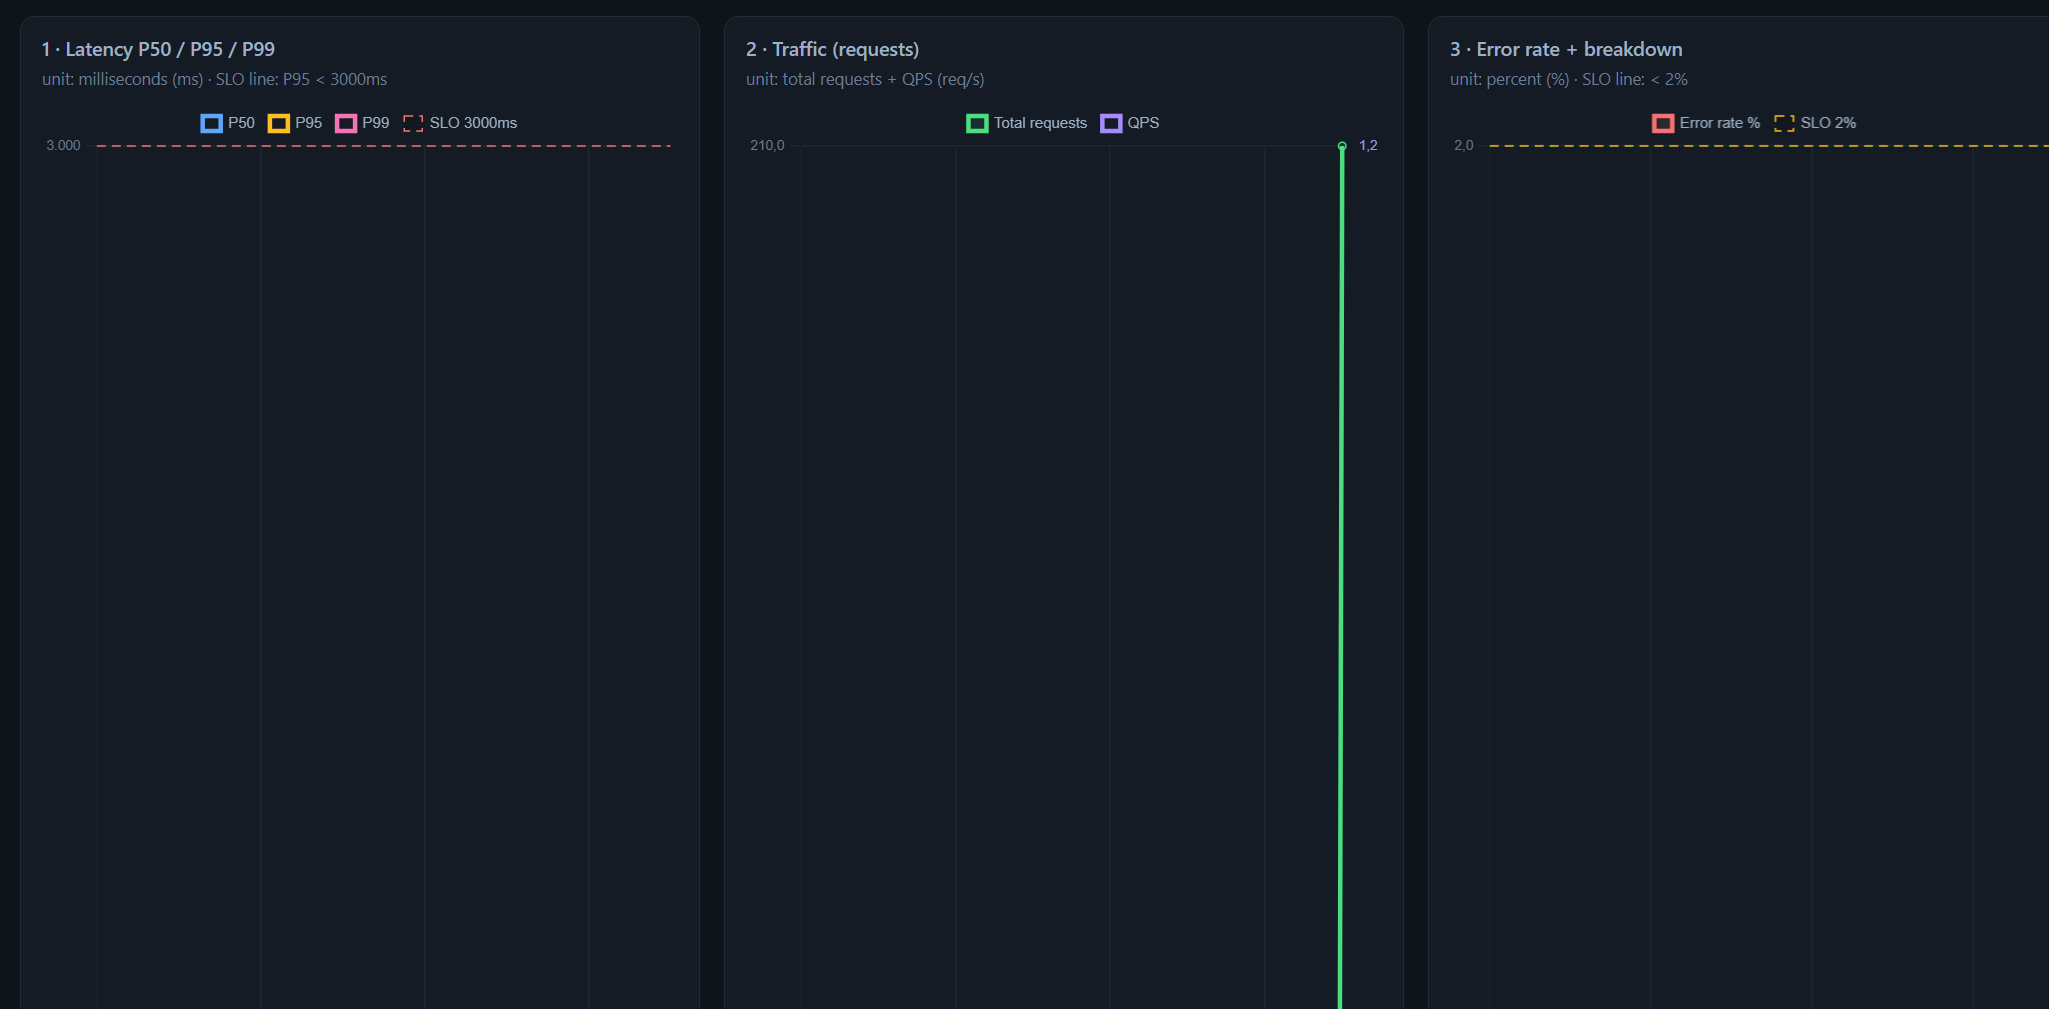
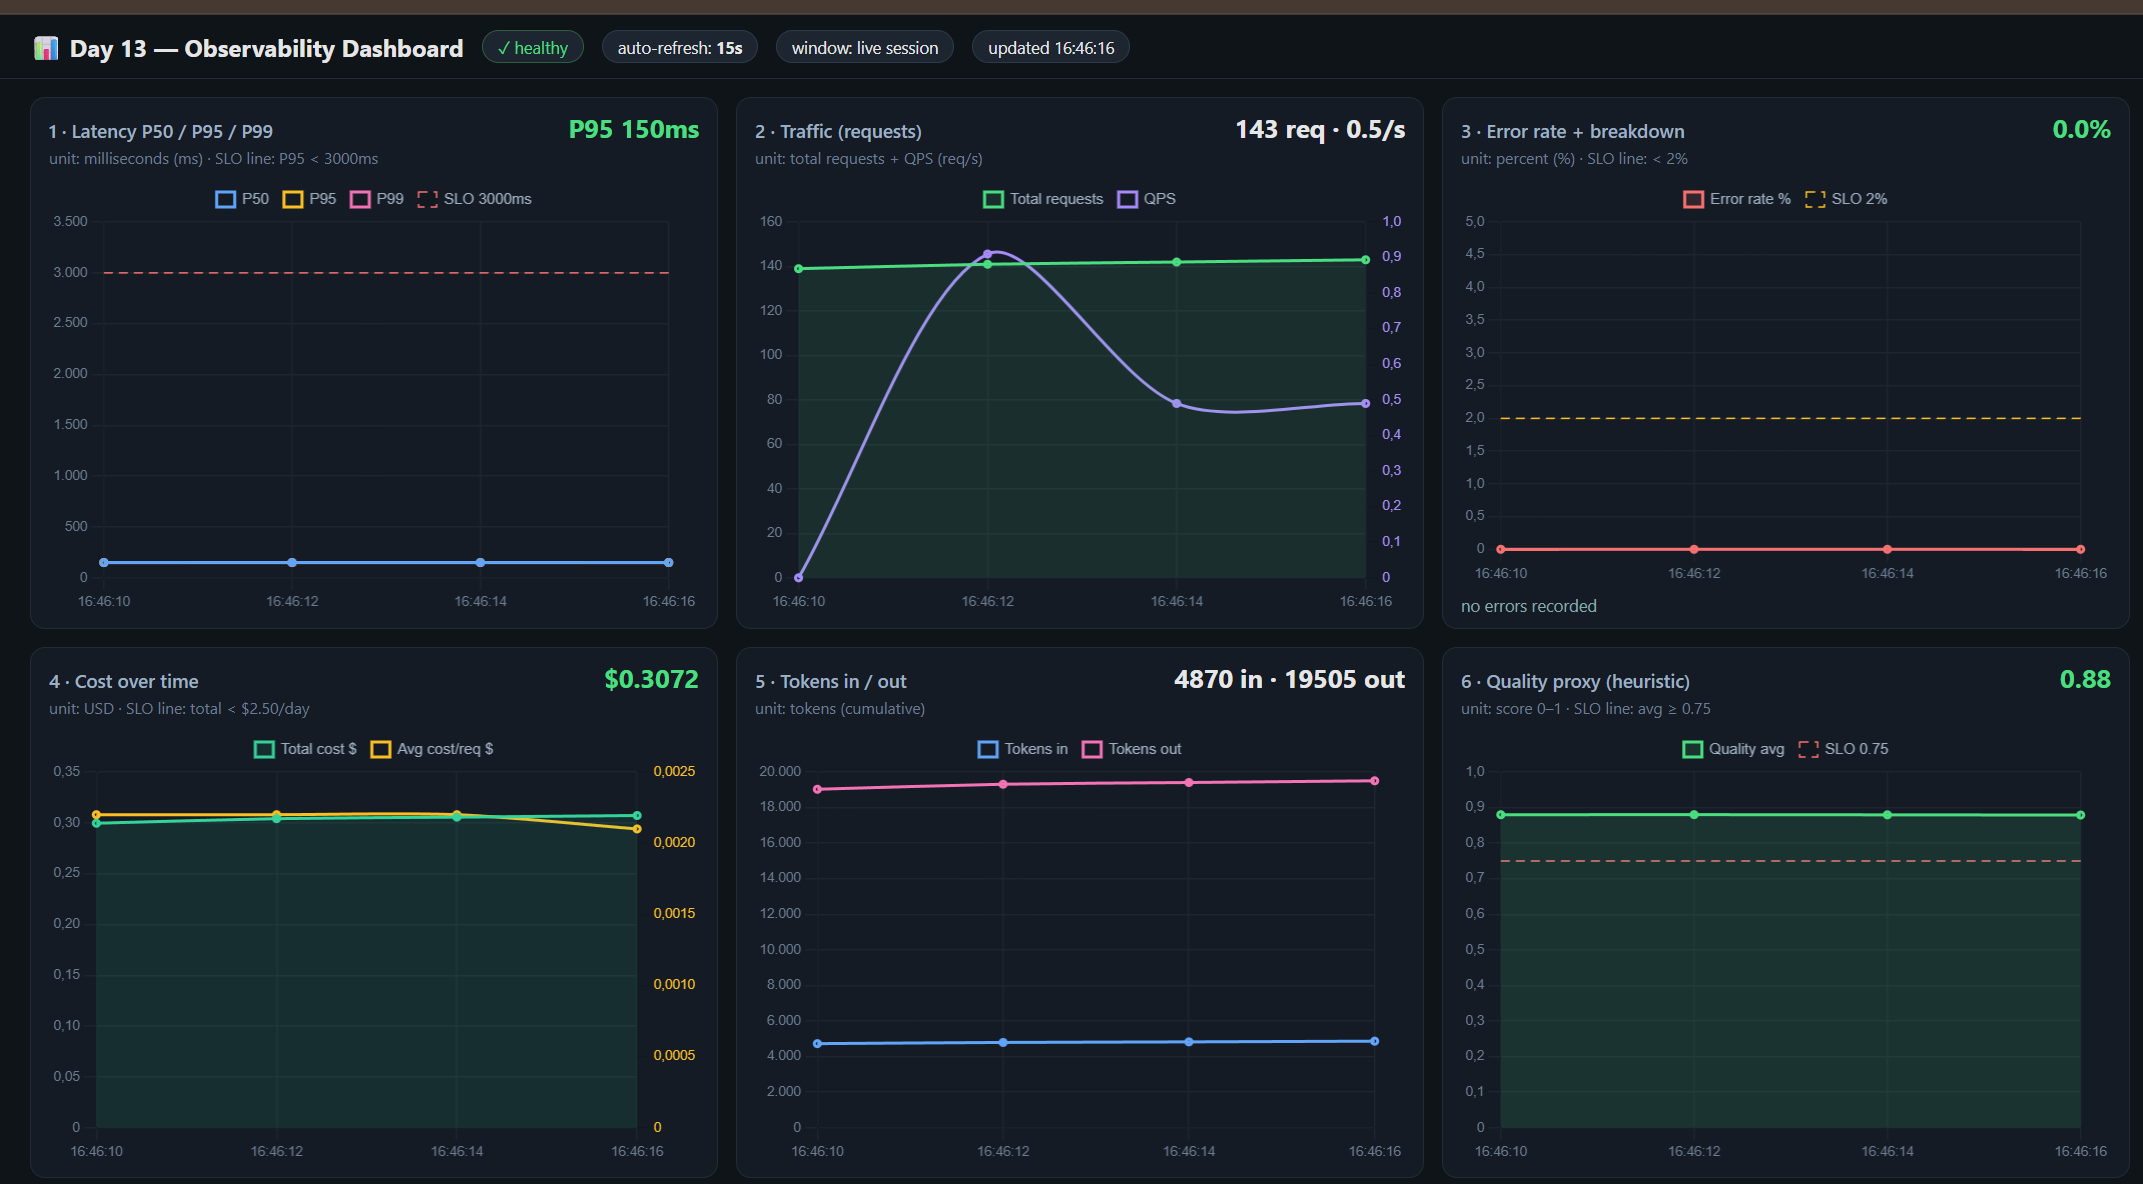
docs: recapture dashboard evidence (full 6-panel + rag_slow incident)
- replace dashboard evidence with single full-screen capture showing all
  6 panels at once (healthy state)
- add evidence-dashboard-incident.png: rag_slow latency spike (P95 ~2650ms)
- drop obsolete evidence-dashboard-panels-4-6.png (one shot now covers all 6)
- wire new screenshots into blueprint report (3.2 + incident section)
- curate data/audit.jsonl to a clean 16-line representative sample

diff --git a/docs/blueprint-template.md b/docs/blueprint-template.md
@@ -40,8 +40,9 @@
 3. structlog chạy chuỗi processor: `merge_contextvars` → `add_log_level` → `TimeStamper(ts)` → **`scrub_event` (redact PII)** → ghi JSONL ra `data/logs.jsonl` → `JSONRenderer`.
 
 ### 3.2 Dashboard & SLOs
-- [DASHBOARD_6_PANELS_SCREENSHOT]: docs/evidence-dashboard.png (panel 1–3: Latency, Traffic, Error rate) + docs/evidence-dashboard-panels-4-6.png (panel 4–6: Cost, Tokens, Quality)
-- Dashboard tự xây bằng Chart.js, app phục vụ tại **http://127.0.0.1:8000/dashboard** (cùng origin với `/metrics`, không lỗi CORS). Auto-refresh 15s, có đường SLO (nét đứt đỏ), đơn vị rõ ràng. 6 panel: (1) Latency P50/P95/P99, (2) Traffic + QPS, (3) Error rate + breakdown, (4) Cost over time, (5) Tokens in/out, (6) Quality proxy.
+- [DASHBOARD_6_PANELS_SCREENSHOT]: docs/evidence-dashboard.png — **cả 6 panel trong 1 ảnh** (trạng thái healthy)
+- [DASHBOARD_INCIDENT_SCREENSHOT]: docs/evidence-dashboard-incident.png — cùng dashboard khi bật incident `rag_slow`: panel Latency vọt lên **P95 ≈ 2650ms**, badge latency đổi màu, đường tiến sát đường SLO 3000ms.
+- Dashboard tự xây bằng Chart.js, app phục vụ tại **http://127.0.0.1:8000/dashboard** (cùng origin với `/metrics`, không lỗi CORS). Layout 3×2 vừa khít 1 màn hình (chụp 1 ảnh đủ 6 panel), mỗi panel có **badge số liệu hiện tại** đọc rõ kể cả khi đường phẳng. Auto-refresh 15s, có đường SLO (nét đứt đỏ), đơn vị rõ ràng. 6 panel: (1) Latency P50/P95/P99, (2) Traffic + QPS, (3) Error rate + breakdown, (4) Cost over time, (5) Tokens in/out, (6) Quality proxy.
 - [SLO_TABLE]:
 | SLI | Target | Window | Current Value (đo thật) |
 |---|---:|---|---:|
@@ -68,7 +69,7 @@
 - [SYMPTOMS_OBSERVED]:
   - **tool_fail**: Panel Error rate trên dashboard nhảy lên 100%, badge chuyển `⚠ SLO breach`. `/metrics` hiện `error_breakdown: {"RuntimeError": 10}`. Traffic không tăng (request lỗi không được tính `record_request`).
   - **cost_spike**: Panel Cost & Tokens vọt lên. `tokens_out` ~530/req (so với ~248/req baseline) = **4×**; `avg_cost_usd` tăng `0.002 → 0.004`.
-  - **rag_slow**: Panel Latency vọt. `latency_ms` báo về **2651ms** (so với 150ms baseline ≈ **17×**), wall-time ~3011ms.
+  - **rag_slow**: Panel Latency vọt (xem `docs/evidence-dashboard-incident.png`). `latency_ms` báo về **2650ms** (so với 150ms baseline ≈ **17×**), wall-time ~3011ms.
 - [ROOT_CAUSE_PROVED_BY]:
   - **tool_fail** → Log line: `{"event":"request_failed","error_type":"RuntimeError","payload":{"detail":"Vector store timeout"},"correlation_id":"req-17c9f0c6",...}`. Root cause: `mock_rag.retrieve()` ném `RuntimeError("Vector store timeout")` khi cờ `tool_fail` bật → vector store không phản hồi.
   - **rag_slow** → Trace span `run` kéo dài ~2.6s; `reported_latency_ms=2651`. Root cause: `time.sleep(2.5)` trong bước retrieval (`mock_rag.py`) → RAG là thành phần chậm, không phải LLM.